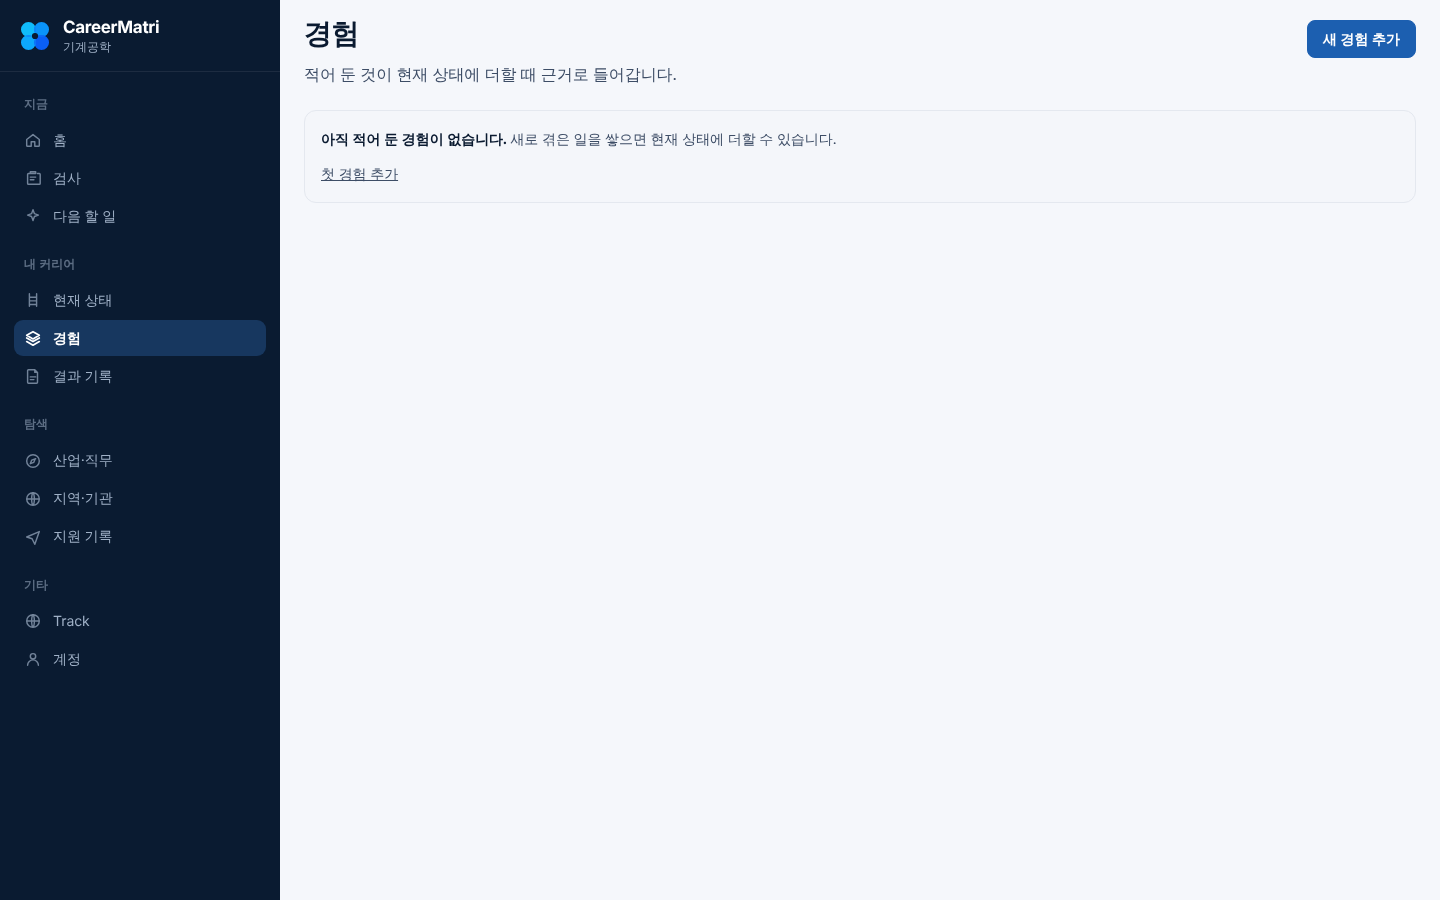
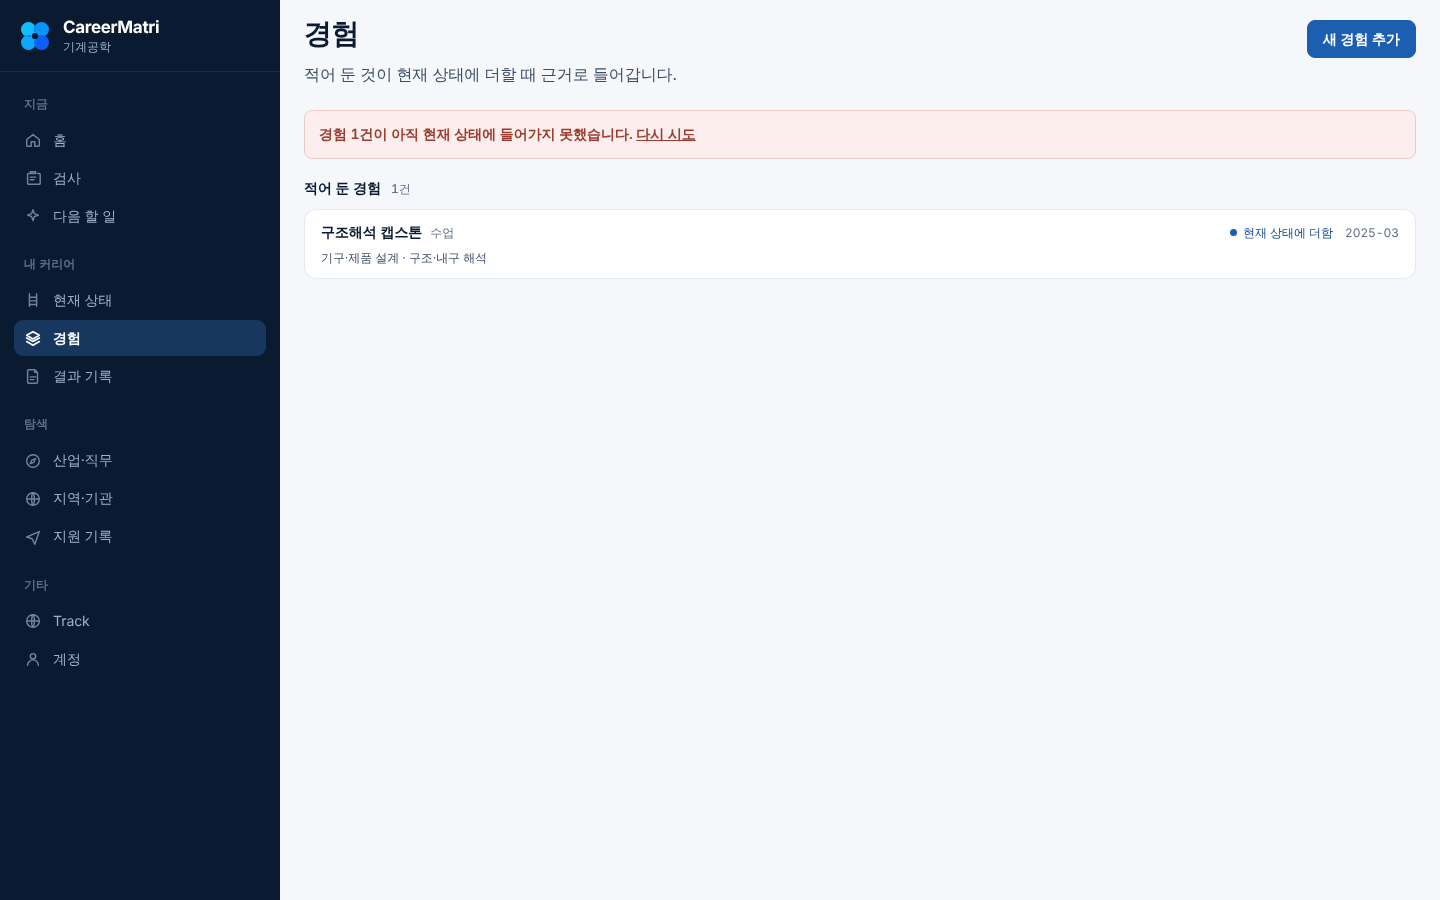
AI 티 방지와 Visual Reference 를 상시 규칙으로 굳혔다
받은 두 묶음(문체 15항 · 시각 15항)을 별도 지시 없이 계속 도는 자리에
넣었다. 문구는 v3:copy, 구성은 v3:screens 다. 같은 판정을 두 곳에서
하지 않는다.

문구 규칙 열하나를 더했다 — 종합적으로 분석·판단 · 다양한/새로운
가능성 · 잠재력 · 성장을 지원 · 귀하 · 탐색해보세요 · 당신은 ~인재 ·
에 적합합니다 · 영어 제목 · 손님 화면의 기술 용어 · emoji. 한도를 0 으로
둔 것은 이 말들에 자연스러운 자리가 없기 때문이다. 막는 말을 일부러 넣어
돌려 열한 규칙이 전부 걸리는 것까지 확인했다.

보는 파일을 둘 더했다(/my 와 공통 조각 me/ui.tsx). 그러자 멀쩡한 자리가
하나 걸렸다: Evidence 규칙에 낱말 경계가 없어 T("navEvidence") 라는 열쇠
이름이 잡혔다. 그 자리의 한국어는 '경험과 증거' 다.

v3:prop:shots 를 v3:screens 로 옮겼다. 한 회차의 캡처로 끝나지 않고 계속
도는 검사라서다. 세는 것이 넷에서 일곱이 됐다: 구성 요소의 종류가 셋에
못 미치는가 · 쓰지 않기로 한 표시 색조가 섞였는가 · 손전화가 데스크톱을
줄인 것인가. 세는 것은 종류다 — 같은 카드를 여섯 장 세우는 것은 한
가지고, 그 모양이 규격이 이름을 댄 '큰 흰 박스 안 긴 텍스트' 다.

빈 쪽을 재면 그 쪽의 구성 대신 빈 상태를 재게 되므로 찍기 전에 경험
하나와 지원 하나를 적어 둔다. 문턱을 아홉으로 올리고 색조 하나를 빼고
띠 조건을 뒤집어 돌려 셋 다 걸리는 것까지 확인했다.

세다가 진짜 고장을 하나 찾았다: 지원 기록이 한 줄도 저장되지 않았다.
addApplication 의 INSERT 가 $3 과 $10 을 뒤쪽 조건절에서 한 번 더 쓰는데
그 자리에는 형을 끌어올 칸이 없어 PostgreSQL 이 질의를 세우는 자리에서
거절한다(42P08). 값과 무관하게 늘 거절하므로 폼을 적어 보낸 사람은 아무
일도 일어나지 않은 단추를 봤다. 형을 적어 주는 것 말고 아무것도 바꾸지
않았다. 화면이 200 으로 멀쩡히 떠서 어느 검사도 세지 않던 자리다.

판본은 작업공간만 — CAREERMATRI_WORKSPACE_UI_V25. 문장 판본은 올리지
않는다: 화면에 서는 글자가 한 줄도 바뀌지 않았다.

Claude-Session: https://claude.ai/code/session_01VsLgPeSsVvvXWmRdQnrgMy

Changed region(s): [[0.2188, 0.1244, 0.5625, 0.2178], [0.2188, 0.2489, 0.3438, 0.3111], [0.8438, 0.2489, 0.9688, 0.28]]

diff --git a/pca-platform/scripts/v3-screens-check.ts b/pca-platform/scripts/v3-screens-check.ts
@@ -1,23 +1,35 @@
 /**
- * **Visual Propagation 캡처.** 아홉 화면을 Desktop 1440 과 Mobile 390 으로
- * 같은 길에서 찍는다.
+ * **작업공간 화면을 찍고 기계가 센다.** 아홉 화면과 홈을 Desktop 1440 과
+ * Mobile 390 으로 **같은 길에서** 찍는다.
  *
  * 자리 목록을 주소로 열기만 하지 않고 **자료를 먼저 만든다**: 빈 사람으로
- * 찍으면 아홉 장이 전부 빈 상태라 위계를 볼 수 없다.
+ * 찍으면 열 장이 전부 빈 상태라 위계를 볼 수 없다.
  *
- *   OUT=docs/metri/shots/prop npm run v3:prop:shots
+ * 세는 것은 일곱이다: 열리는가 · 가로로 밀리는가 · 짙은 단추가 둘인가 ·
+ * 아래 띠가 글을 덮는가 · **구성 요소의 종류가 셋에 못 미치는가** ·
+ * 쓰지 않기로 한 표시 색조가 섞였는가 · **손전화가 데스크톱을 줄인
+ * 것인가**.
+ *
+ * **사람 눈이 먼저다.** 여기서 세는 것은 한 번 고친 모양이 다음 회차에
+ * 조용히 돌아오는 것을 막는 데까지다.
+ *
+ *   OUT=docs/metri/shots/prop npm run v3:screens
  */
 import { mkdirSync } from "node:fs";
 import { join } from "node:path";
 import { chromium, type Page } from "playwright";
 import {
-  BASE, assertFreshServer, cloneFinished, loadEnv, login, makeStudent,
+  BASE, assertFreshServer, cloneFinished, fillExperience, loadEnv, login, makeStudent,
 } from "./_loop-fixture";
 import { query } from "../src/lib/db";
+import { addApplication } from "../src/lib/me-v3/platform";
 
 loadEnv();
 const OUT = process.env.OUT || "docs/metri/shots/prop";
 let fail = 0;
+
+/** 쓰기로 한 표시 색조 넷. blue · cyan · violet · warm */
+const TONES = new Set(["is-b", "is-c", "is-v", "is-w"]);
 
 const SCREENS: [string, string][] = [
   ["01-assessment-start", "/cores"],
@@ -32,7 +44,15 @@ const SCREENS: [string, string][] = [
   ["00-home", "/me"],
 ];
 
-type Check = { status: number; h: number; over: number; prim: number; hide: number; hid: string[] };
+type Check = {
+  status: number; h: number; over: number; prim: number; hide: number; hid: string[];
+  /** 그 화면이 쓴 구성 요소의 **종류** 수(규격 Visual Reference) */
+  kinds: number; kindList: string[];
+  /** 표시의 색조. blue · cyan · violet · warm 넷만 쓴다 */
+  tones: string[];
+  /** 왼쪽 띠와 아래 띠. 손전화가 데스크톱을 줄인 것이 아니라는 증거다 */
+  rail: boolean; tabs: boolean;
+};
 
 /**
  * 찍으면서 **규격 §21 을 기계가 센다.** 눈으로만 보면 쪽이 아홉이라
@@ -77,7 +97,38 @@ async function shoot(p: Page, dir: string, name: string, path: string): Promise<
         }
       }
     }
+    /* **한 화면이 한 가지 모양만 쓰면 긴 글을 담은 흰 상자가 된다**
+       (규격 Visual Reference). 종류를 센다: 요약 · 눈에 띄는 칸 · 촘촘한
+       칸 · 표시가 붙은 묶음 머리 · 줄 · 빈 상태 · 접은 자세한 내용 ·
+       보조 정보 · 주된 행동. **개수가 아니라 종류다**: 같은 카드를 여섯
+       장 세우는 것은 한 가지다 */
+    /* **이름 붙은 화살표 함수를 여기 두지 않는다.** 번들러가 이름을
+       지키려고 `__name` 을 끼워 넣는데 그 이름은 브라우저 쪽에 없어서
+       `ReferenceError` 로 끝난다. 조건을 그 자리에 편다 */
+    const KIND: [string, string][] = [
+      ["요약", ".cm-stat, .cm-hero"],
+      ["강조", ".cm-panel.is-lead, .cm-card, .cm-why"],
+      ["칸", ".cm-tiles, .cm-pcs"],
+      ["표시머리", ".cm-sh > svg, .cm-card h2 > svg"],
+      ["줄", ".cm-list, .cm-rows, .cm-table, .cm-zone"],
+      ["빈상태", ".cm-empty, .cm-soon"],
+      ["접음", "details.cm-fold"],
+      ["보조", ".cm-pc-meta, .cm-item-meta, .cm-stat-n"],
+      ["행동", ".cm-btn.is-primary, .cm-pc-cta.is-strong"],
+    ];
+    const kindList = KIND.filter(([, sel]) => [...document.querySelectorAll(sel)]
+      .some((e) => (e as HTMLElement).checkVisibility({ contentVisibilityAuto: true })))
+      .map(([k]) => k);
+
     return {
+      kindList, kinds: kindList.length,
+      /* 표시의 색조. 쓰지 않기로 한 색이 섞이면 칸 넷이 한 덩이로 안 읽힌다 */
+      tones: [...new Set([...document.querySelectorAll(".cm-pc-ico")]
+        .flatMap((e) => [...e.classList].filter((c) => c.startsWith("is-"))))],
+      rail: [...document.querySelectorAll(".cm-rail")]
+        .some((e) => (e as HTMLElement).checkVisibility({ contentVisibilityAuto: true })),
+      tabs: [...document.querySelectorAll(".cm-tabs")]
+        .some((e) => (e as HTMLElement).checkVisibility({ contentVisibilityAuto: true })),
       over: document.documentElement.scrollWidth - document.documentElement.clientWidth,
       h: document.documentElement.scrollHeight,
       /* **짙은 단추는 한 화면에 하나다**(규격 §2 E). **보이는 것만
@@ -102,6 +153,19 @@ async function main(): Promise<void> {
   await cloneFinished(a.id);
   const b = await chromium.launch();
 
+  /* **빈 쪽을 재면 그 쪽의 구성이 아니라 빈 상태를 재게 된다.** 경험 하나와
+     지원 하나를 먼저 적어 둔다. 빈 상태는 따로 두는 규칙이 있고, 그것을
+     채우려고 쓰지 않는 칸을 세우면 바로 그 규칙이 막는 모양이 된다 */
+  {
+    const c0 = await b.newContext({ viewport: { width: 1440, height: 900 } });
+    const p0 = await login(c0, LOGIN, a.pw);
+    await fillExperience(p0, "구조해석 캡스톤");
+    await c0.close();
+    await addApplication(a.id, {
+      org_name: "한국기계연구원", applied_on: "2026-09-01", state: "applied",
+    });
+  }
+
   for (const [kind, size] of [["", { width: 1440, height: 900 }],
                               ["m", { width: 390, height: 844 }]] as const) {
     const ctx = await b.newContext({ viewport: size, deviceScaleFactor: 1 });
@@ -110,11 +174,19 @@ async function main(): Promise<void> {
     console.log(`\n── ${kind ? "Mobile 390" : "Desktop 1440"}\n`);
     for (const [name, path] of SCREENS) {
       const c = await shoot(p, dir, name, path);
+      const odd = c.tones.filter((t) => !TONES.has(t));
       const bad = [
         c.status !== 200 ? `상태 ${c.status}` : "",
         c.over > 0 ? `가로넘침 ${c.over}px` : "",
         c.prim > 1 ? `짙은 단추 ${c.prim}개` : "",
         c.hide > 0 ? `띠가 가린 것 ${c.hide} · ${c.hid.join(" / ")}` : "",
+        c.kinds < 3 ? `구성 종류 ${c.kinds}가지 (${c.kindList.join(",")})` : "",
+        odd.length ? `쓰지 않는 색조 ${odd.join(",")}` : "",
+        /* **손전화가 데스크톱을 줄인 것이 아니다.** 넓은 화면은 왼쪽 띠로
+           옮겨 다니고 좁은 화면은 아래 띠로 옮겨 다닌다. 한쪽 규칙이
+           빠지면 390 에서 왼쪽 띠가 폭을 먹거나 옮겨 갈 길이 사라진다 */
+        kind === "m" && (c.rail || !c.tabs) ? "손전화에서 띠가 바뀌지 않았다" : "",
+        kind === "" && (!c.rail || c.tabs) ? "넓은 화면에서 띠가 바뀌지 않았다" : "",
       ].filter(Boolean);
       if (bad.length) fail += 1;
       console.log(`  ${bad.length ? "걸림" : "통과"}  ${name.padEnd(22)}`

diff --git a/pca-platform/scripts/v3-copy-check.ts b/pca-platform/scripts/v3-copy-check.ts
@@ -81,10 +81,45 @@ const RULES: { re: RegExp; limit: number; why: string; use: string }[] = [
     why: "안쪽 일을 가리키는 말(규격 §20)", use: "더하다 · 담다 · 바꾸다" },
   { re: /비어 있는 자리|비어 있던 자리|빈자리|자리별로|쓰인 자리|판단 자리/g, limit: 0,
     why: "안쪽 비유를 손님 화면에 적는다(규격 §20)", use: "부족한 부분 · 쓰인 곳 · 영역별" },
-  { re: /스냅샷|Evidence|\bGap\b|가져오기/g, limit: 0,
+  /* **낱말 경계를 붙인다.** 안 붙이면 `T("navEvidence")` 같은 **열쇠
+     이름**이 걸린다. 그 자리의 한국어는 `경험과 증거` 이고 영어는 en
+     판의 값이라, 걸리는 것은 화면에 서는 글이 아니라 식별자다 */
+  { re: /스냅샷|\bEvidence\b|\bGap\b|가져오기/g, limit: 0,
     why: "안쪽 이름과 영어 코드(규격 §20)", use: "검사 당시 결과 · 근거 · 부족한 부분 · 담기" },
   { re: /묶음으로 묶|묶음 판정|묶음이 달라/g, limit: 0,
     why: "안쪽 용어(규격 §20)", use: "영역이 달라졌습니다" },
+
+  /* ── AI 가 쓴 글의 냄새 ──
+     **상시 규칙이다.** 한 번 걷어도 다음 회차에 같은 말이 돌아오는 자리라
+     세어서 막는다. 한도를 0 으로 둔 것은 이 말들이 **자연스러운 자리가
+     없기 때문**이다: 어느 문장에 넣어도 그 문장이 무엇을 말하는지 줄어든다 */
+  { re: /종합적으로 (분석|판단|고려|검토)|종합적인 분석/g, limit: 0,
+    why: "AI 문체", use: "무엇을 보고 무엇을 알았는지 그대로" },
+  { re: /다양한 가능성|새로운 가능성|무한한 가능성|가능성을 열어/g, limit: 0,
+    why: "AI 문체", use: "지금 할 수 있는 것 하나" },
+  { re: /잠재력/g, limit: 0, why: "재지 않은 것을 가리키는 말", use: "확인된 경험" },
+  { re: /성장을 (지원|돕|응원)|커리어 여정|여정을/g, limit: 0,
+    why: "AI 문체", use: "그 자리에서 할 일" },
+  { re: /귀하/g, limit: 0, why: "설문지의 말", use: "빼거나 '~하시면'" },
+  { re: /탐색해 ?보세요|발견해 ?보세요|경험해 ?보세요/g, limit: 0,
+    why: "권유만 있고 무엇을 할지가 없다", use: "무엇을 누르면 되는지" },
+
+  /* ⑤ **판정보다 관찰.** 이 검사는 적성도 유형도 재지 않는다. 그렇게
+     적으면 재지 않은 것을 단정하는 말이 되고, 규준이 없는 지금은 거짓이다 */
+  { re: /당신은[^.。]{0,14}(인재|유형|타입|형입니다)/g, limit: 0,
+    why: "재지 않은 유형을 단정한다", use: "확인된 경험을 그대로" },
+  { re: /에 적합합니다|적합한 직무|가장 잘 맞|적성에 맞|어울립니다/g, limit: 0,
+    why: "합격 가능성으로 읽히는 판정", use: "근거가 확인된 영역" },
+
+  /* ⑨ **제목은 서비스 언어로.** 영어 제목은 그 화면이 무엇을 하는 자리인지
+     한 글자도 말하지 않는다. `Track` 은 파는 것의 이름이라 뺀다 */
+  { re: /Career Insight|AI Recommendation|Personalized Analysis|Smart \w|\bInsight\b|\bRecommendation\b/g,
+    limit: 0, why: "영어 제목(규격 §9)", use: "그 화면이 답하는 물음을 한국어로" },
+
+  /* ⑭ **오류 문구에 기술 용어를 노출하지 않는다.** 상세한 원인은 로그에만
+     적는다. 읽는 사람이 할 수 있는 것은 다시 해 보는 것뿐이다 */
+  { re: /recompute failed|snapshot error|database|connection failed|stack trace|500 오류|internal server/gi,
+    limit: 0, why: "손님 화면에 기술 용어(규격 §14)", use: "무엇이 안 됐고 다음에 무엇을 하면 되는지" },
 ];
 
 /** 한 화면에서 같은 어미가 되풀이되면 설명서처럼 읽힌다 */
@@ -143,7 +178,18 @@ const FILES = [
   "src/app/me/next/page.tsx",
   /* 세 화면이 같이 쓰는 문장. 여기가 안쪽 말을 들면 세 쪽이 같이 든다 */
   "src/lib/me-v3/change-text.ko.ts",
+  /* 계정과 공통 조각. **조각이 말을 들면 그것을 쓰는 쪽이 전부 든다** */
+  "src/app/my/page.tsx",
+  "src/app/me/ui.tsx",
 ];
+
+/**
+ * ⑫ **아이콘은 구분용이고 emoji 는 쓰지 않는다.**
+ *
+ * emoji 는 기기마다 다른 그림이 서고 글자 크기를 따르지 않아, 한 줄 안에서
+ * 그것만 다른 활자로 읽힌다. 표시는 `Icon` 하나로 간다.
+ */
+const EMOJI = /[\u{1F300}-\u{1FAFF}\u{2600}-\u{27BF}\u{2B00}-\u{2BFF}\u{FE0F}]/gu;
 
 const out: string[] = [];
 let bad = 0;
@@ -151,6 +197,8 @@ const flag = (s: string) => { bad += 1; out.push(`  걸림  ${s}`); };
 
 for (const f of FILES) {
   const src = body(readFileSync(f, "utf8"));
+  const emo = [...src.matchAll(EMOJI)];
+  if (emo.length) flag(`${f} — emoji ${emo.length}개 (한도 0) · 표시는 Icon 하나로 간다`);
   for (const r of [...RULES, ...TICS.map((t) =>
     ({ re: t.re, limit: t.limit, why: `한 벌에서 ${t.what} 되풀이`, use: "어미를 바꾼다" }))]) {
     const hits = [...src.matchAll(r.re)];

diff --git a/pca-platform/src/lib/me-v3/workspace-version.ts b/pca-platform/src/lib/me-v3/workspace-version.ts
@@ -61,7 +61,7 @@
  *   들어오는 길이 지금 무엇인지 적지 않으면 구글로 가입하신 분이
  *   비밀번호 찾기를 누르고 메일을 기다린다.
  */
-export const WORKSPACE_UI_VERSION = "CAREERMATRI_WORKSPACE_UI_V24";
+export const WORKSPACE_UI_VERSION = "CAREERMATRI_WORKSPACE_UI_V25";
 
 /**
  * 작업공간에 나가는 한국어. 문장만 바뀌면 이것만 올린다.
@@ -535,4 +535,18 @@ export const WORKSPACE_COPY_VERSION = "careermatri-workspace-copy.16";
  * 한 묶음에 이름을 둘 두지 않는다: `/me/state` 의 `현재 확인된 영역`
  * 머리를 걷었다. 그 묶음의 이름은 바로 위 Summary Hero 의 이름표가 이미
  * 들고 있다.
+ */
+
+/*
+ * `V25` 로 올린 까닭. **지원 기록이 한 줄도 저장되지 않고 있었다.**
+ *
+ * `addApplication` 의 `INSERT` 가 `$3` 과 `$10` 을 뒤쪽 조건절에서 한 번
+ * 더 쓰는데, 그 자리에는 형을 끌어올 칸이 없어 PostgreSQL 이 **질의를
+ * 세우는 자리에서** 거절했다(42P08). 값과 무관하게 늘 거절하므로 폼을
+ * 적어 보낸 사람은 **아무 일도 일어나지 않은 단추**를 봤고, 표에는 줄이
+ * 하나도 없었다. 형을 적어 주는 것 말고 아무것도 바꾸지 않았다: 담는 값과
+ * 지우는 기한의 뜻이 그대로다.
+ *
+ * **화면에 서는 글자는 한 줄도 바뀌지 않았다.** 문장 판본을 올리지 않는
+ * 것이 그 까닭이다.
  */

diff --git a/pca-platform/src/lib/me-v3/platform.ts b/pca-platform/src/lib/me-v3/platform.ts
@@ -538,12 +538,18 @@ export async function addApplication(userId: string, a: {
   region_code?: string | null; org_type_code?: string | null;
   applied_on?: string | null; state?: string; note_text?: string | null;
 }): Promise<void> {
+  /**
+   * **자리를 두 번 쓰면 형을 적어 준다.** 뒤쪽 조건절의 `$3 IS NULL` 에는
+   * 형을 끌어올 칸이 없어 PostgreSQL 이 질의를 세우는 자리에서 거절한다
+   * (42P08). 값과 무관하게 늘 거절하므로 **지원 기록이 한 줄도 저장되지
+   * 않았다**: 폼을 적어 보낸 사람은 아무 일도 일어나지 않은 단추를 봤다.
+   */
   await query(
     `INSERT INTO v3_applications
        (user_id, core_code, org_name, role_code, industry_code, region_code,
         org_type_code, applied_on, state, note_text, purge_after)
-     VALUES ($1,$2,$3,$4,$5,$6,$7,$8,$9,$10,
-             CASE WHEN $3 IS NULL AND $10 IS NULL THEN NULL
+     VALUES ($1,$2,$3::text,$4,$5,$6,$7,$8::date,$9,$10::text,
+             CASE WHEN $3::text IS NULL AND $10::text IS NULL THEN NULL
                   ELSE current_date + 365 END)`,
     [userId, await activeCore(userId), (a.org_name ?? "").trim().slice(0, 120) || null,
      a.role_code || null, a.industry_code || null,

diff --git a/pca-platform/CLAUDE.md b/pca-platform/CLAUDE.md
@@ -6494,3 +6494,56 @@ npm run v3:prop:shots   # 아홉 화면 × Desktop·Mobile + 띠 겹침·가로 
 못했다**(HTTP 000). iPhone Safari 실기기 확인이 남아 있다. DB 스키마를 한
 줄도 바꾸지 않았으므로 마이그레이션은 필요 없고, 고친 것이 전부 이미지
 안으로 들어가는 파일이라 **재배포가 먼저다.**
+
+**AI 티 방지와 Visual Reference 를 상시 규칙으로 굳혔다.** (2026-10-12)
+
+받은 두 묶음(문체 15항 · 시각 15항)을 **별도 지시 없이 계속 도는** 자리에
+넣었다. 문구 쪽은 `v3:copy`, 구성 쪽은 `v3:screens` 다. 같은 판정을 두
+곳에서 하지 않는다. 자세한 것은
+`docs/metri/WORKSPACE_VISUAL_PROPAGATION.md` 8~9절.
+
+**한도를 0 으로 둔 말에는 자연스러운 자리가 없다.** 어느 문장에 넣어도 그
+문장이 무엇을 말하는지 줄어든다. 더한 것은 열한 가지다: `종합적으로
+분석·판단` · `다양한·새로운 가능성` · `잠재력` · `성장을 지원` · `귀하` ·
+`탐색해보세요` · `당신은 ~인재` · `에 적합합니다` · 영어 제목
+(`Insight` · `Recommendation`) · 손님 화면의 기술 용어(`recompute
+failed` · `database` · `stack trace`) · emoji. 막는 말을 일부러 넣어 돌려
+**열한 규칙이 전부 걸리는 것까지** 확인했다.
+
+**보는 파일을 둘 더했다**(`/my` 와 공통 조각 `me/ui.tsx`). 조각이 말을
+들면 그것을 쓰는 쪽이 전부 든다. 그 둘을 더하자 **멀쩡한 자리가 하나
+걸렸다**: `Evidence` 규칙에 낱말 경계가 없어 `T("navEvidence")` 라는
+열쇠 이름이 잡혔다(그 자리의 한국어는 `경험과 증거` 다).
+
+**`v3:prop:shots` 를 `v3:screens` 로 옮겼다.** 한 회차의 캡처로 끝나지
+않고 계속 도는 검사라서다. 세는 것이 넷에서 일곱이 됐고, 더한 셋은
+**구성 요소의 종류가 셋에 못 미치는가**(요약 · 강조 · 칸 · 표시머리 ·
+줄 · 빈 상태 · 접음 · 보조 · 행동 아홉 가운데) · **쓰지 않기로 한 표시
+색조가 섞였는가**(blue · cyan · violet · warm 넷) · **손전화가
+데스크톱을 줄인 것인가**(넓은 화면은 왼쪽 띠, 좁은 화면은 아래 띠)다.
+**세는 것은 종류다**: 같은 카드를 여섯 장 세우는 것은 한 가지고, 그 모양이
+규격이 이름을 댄 `큰 흰 박스 안 긴 텍스트` 다.
+
+**빈 쪽을 재면 그 쪽의 구성 대신 빈 상태를 재게 된다.** 찍기 전에 경험
+하나와 지원 하나를 적어 둔다. 빈 상태는 따로 두는 규칙이 있고, 그것을
+채우려고 쓰지 않는 칸을 세우면 **바로 그 규칙이 막는 모양**이 된다. 문턱을
+아홉으로 올리고 색조 하나를 빼고 띠 조건을 뒤집어 돌려 셋 다 걸리는 것까지
+확인했다.
+
+**세다가 진짜 고장을 하나 찾았다. 지원 기록이 한 줄도 저장되지 않았다.**
+`addApplication` 의 `INSERT` 가 `$3`(기업 이름)과 `$10`(메모)을 뒤쪽
+조건절에서 한 번 더 쓰는데, 그 자리에는 형을 끌어올 칸이 없어 PostgreSQL
+이 **질의를 세우는 자리에서** 거절한다(42P08). 값과 무관하게 늘 거절하므로
+폼을 적어 보낸 사람은 **아무 일도 일어나지 않은 단추**를 봤고 표에는 줄이
+하나도 없었다. 형을 적어 주는 것 말고 아무것도 바꾸지 않았다. **화면이
+200 으로 멀쩡히 떠서 어느 검사도 세지 않았다**: 쪽이 서는가와 누른 일이
+저장되는가는 다른 질문이고, 이 쪽은 뒤엣것을 보는 검사가 없었다. 이제
+`v3:screens` 가 찍기 전에 한 줄을 적으므로 다시 깨지면 그 자리에서 멈춘다.
+
+```bash
+npm run v3:screens   # 화면 10 × Desktop·Mobile · 세는 것 일곱
+npm run v3:copy      # 화면 카피 · 파일 32벌 · 규칙 38가지
+```
+
+판본은 작업공간만 올랐다: `CAREERMATRI_WORKSPACE_UI_V25`. **문장 판본은
+올리지 않는다**: 화면에 서는 글자가 한 줄도 바뀌지 않았다.
